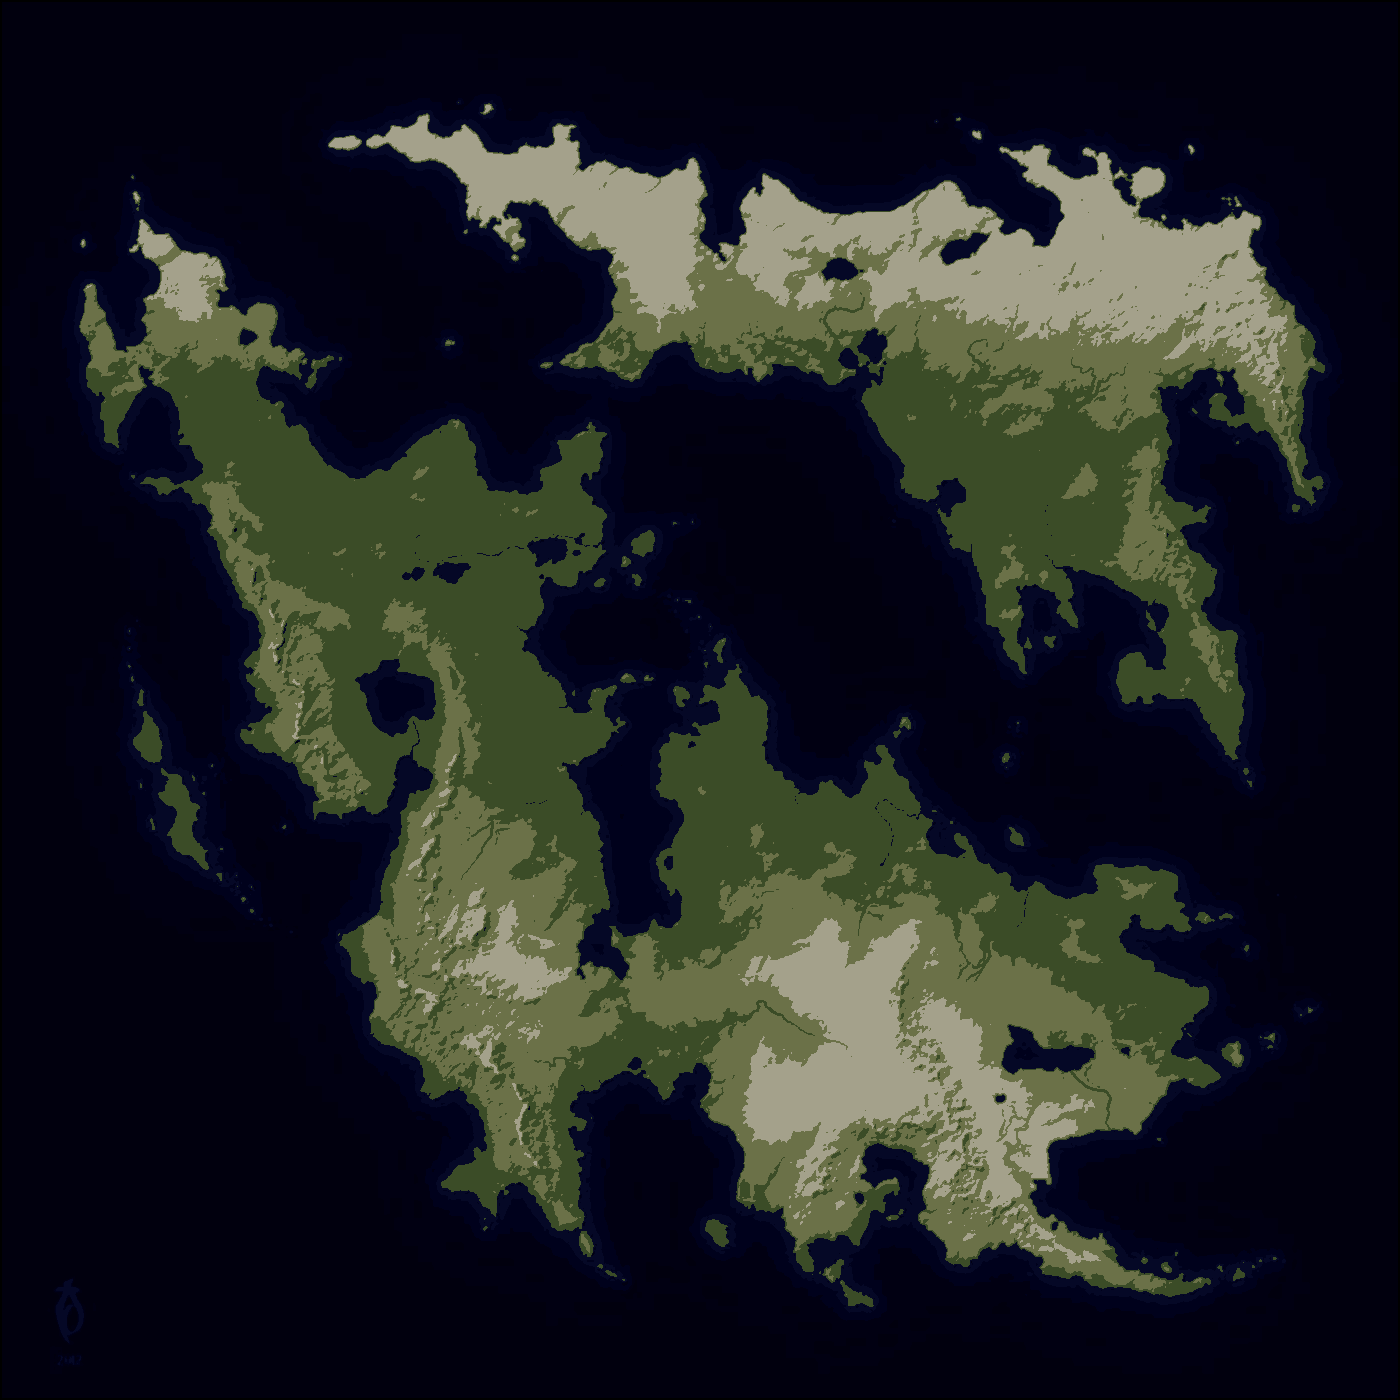
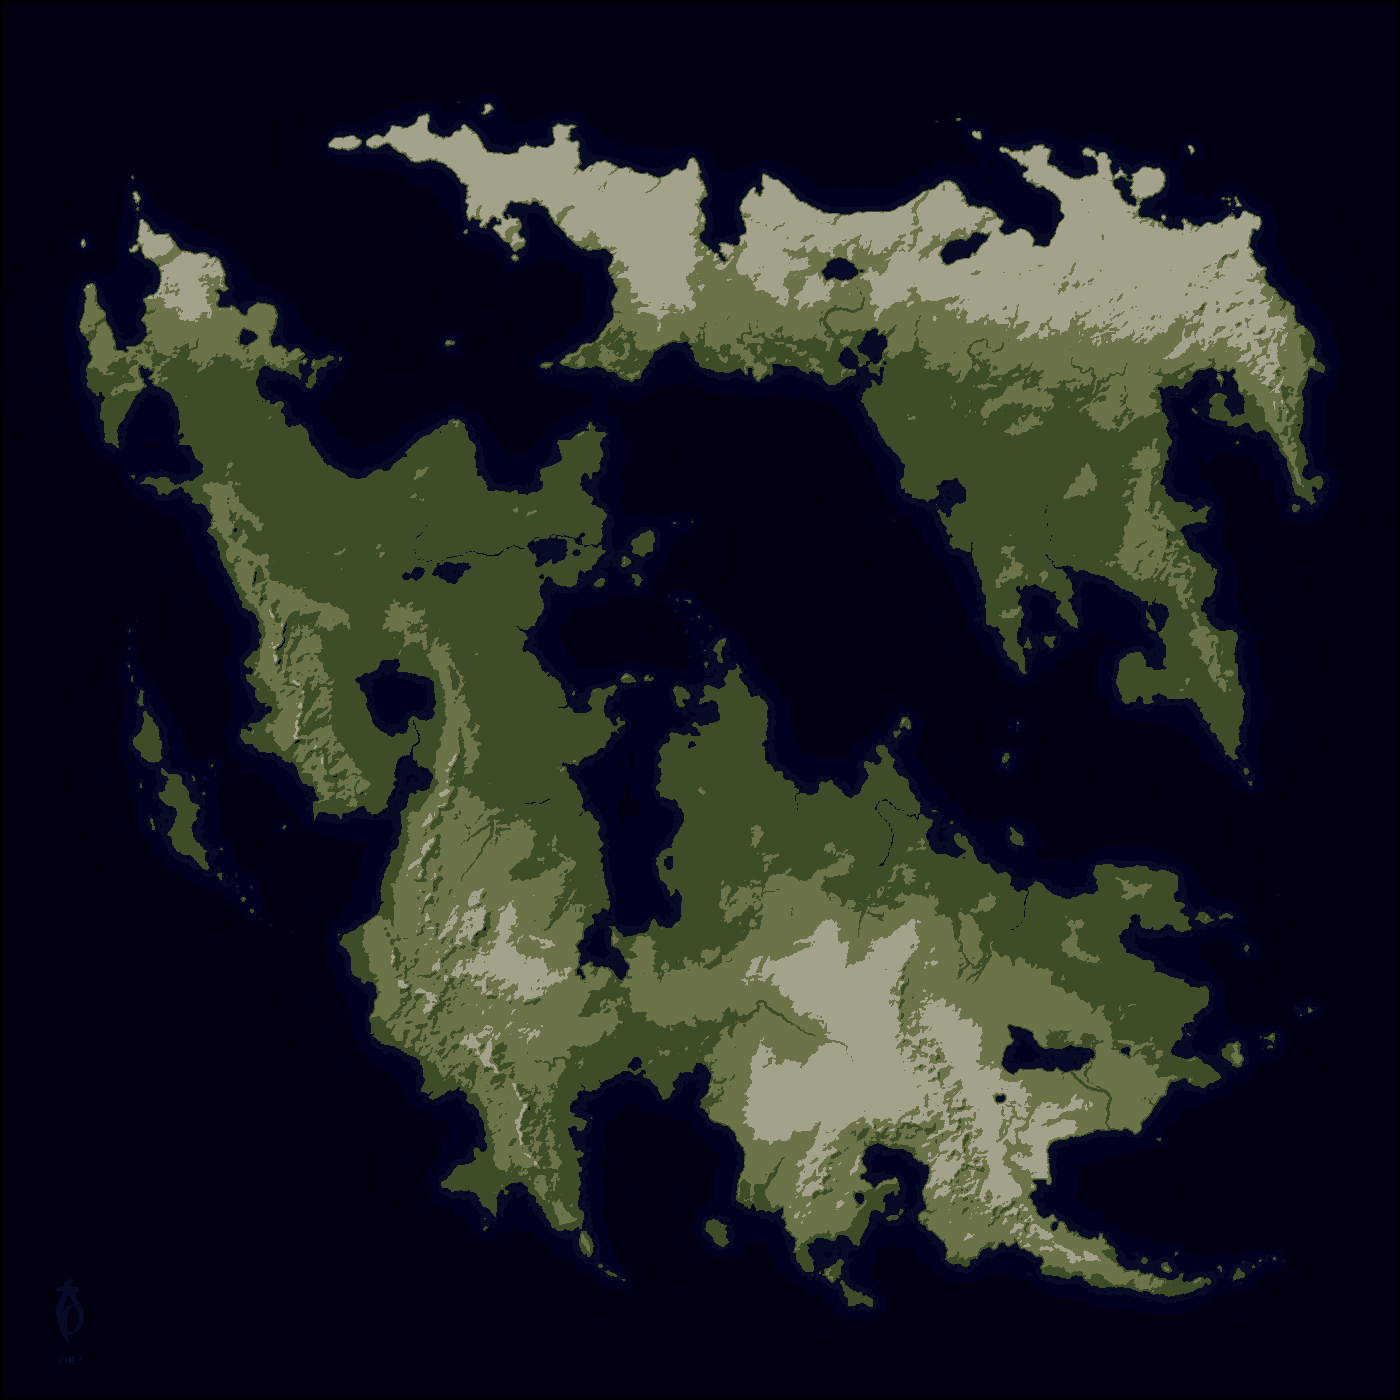
Donner un nom à nos clusters

diff --git a/NomDesBiomes.java b/NomDesBiomes.java
@@ -1,0 +1,56 @@
+public class NomDesBiomes {
+
+    private Biome[] biomes;
+
+    public NomDesBiomes() {
+        biomes = new Biome[] {
+            new Biome("Toundra", 71, 70, 61),
+            new Biome("Taiga", 43, 50, 35),
+            new Biome("Foret temperee", 59, 66, 43),
+            new Biome("Foret tropicale", 46, 64, 34),
+            new Biome("Savane", 84, 106, 70),
+            new Biome("Prairie", 104, 95, 82),
+            new Biome("Desert", 152, 140, 120),
+            new Biome("Glacier", 200, 200, 200),
+            new Biome("Eau peu profonde", 49, 83, 100),
+            new Biome("Eau profonde", 12, 31, 47)
+        };
+    }
+
+    public String[] etiqueterClusters(double[][] centres) {
+        String[] etiquettes = new String[centres.length];
+
+        for (int i = 0; i < centres.length; i++) {
+            etiquettes[i] = trouverBiomeLePlusProche(centres[i]).getNom();
+        }
+
+        return etiquettes;
+    }
+
+    private Biome trouverBiomeLePlusProche(double[] centre) {
+        Biome meilleurBiome = biomes[0];
+        double meilleureDistance = distance(centre, biomes[0].getCouleur());
+
+        for (int i = 1; i < biomes.length; i++) {
+            double distance = distance(centre, biomes[i].getCouleur());
+
+            if (distance < meilleureDistance) {
+                meilleureDistance = distance;
+                meilleurBiome = biomes[i];
+            }
+        }
+
+        return meilleurBiome;
+    }
+
+    private double distance(double[] couleur1, double[] couleur2) {
+        double somme = 0;
+
+        for (int i = 0; i < couleur1.length; i++) {
+            double difference = couleur1[i] - couleur2[i];
+            somme += difference * difference;
+        }
+
+        return Math.sqrt(somme);
+    }
+}

diff --git a/Biome.java b/Biome.java
@@ -1,21 +1,34 @@
-/**
- * Classe représentant un biome, avec son nom et sa couleur (r, g, b).
- */
 public class Biome {
-    public String nom;
-    public int r, g, b;
 
-    /**
-     * Constructeur de la classe Biome
-     * @param nom le nom du biome
-     * @param r la composante rouge de la couleur du biome (entre 0 et 255)
-     * @param g la composante verte de la couleur du biome (entre 0 et 255)
-     * @param b la composante bleue de la couleur du biome (entre 0 et 255)
-     */
-    public Biome(String nom, int r, int g, int b) {
+    private String nom;
+    private int rouge;
+    private int vert;
+    private int bleu;
+
+    public Biome(String nom, int rouge, int vert, int bleu) {
         this.nom = nom;
-        this.r = r;
-        this.g = g;
-        this.b = b;
+        this.rouge = rouge;
+        this.vert = vert;
+        this.bleu = bleu;
+    }
+
+    public String getNom() {
+        return nom;
+    }
+
+    public int getRouge() {
+        return rouge;
+    }
+
+    public int getVert() {
+        return vert;
+    }
+
+    public int getBleu() {
+        return bleu;
+    }
+
+    public double[] getCouleur() {
+        return new double[] { rouge, vert, bleu };
     }
 }

diff --git a/Main.java b/Main.java
@@ -16,6 +16,14 @@ public class Main {
         KMeans kmeans = new KMeans(8, 20);
         int[] clusters = kmeans.cluster(descriptions);
 
+        NomDesBiomes etiqueteur = new NomDesBiomes();
+
+        String[] etiquettes = etiqueteur.etiqueterClusters(kmeans.getCentres());
+
+        for (int i = 0; i < etiquettes.length; i++) {
+            System.out.println("Cluster " + i + " -> " + etiquettes[i]);
+        }
+
         BufferedImage imageClusters = VisualisationClusters.creerImageClusters(
                 imageFloutee,
                 clusters,